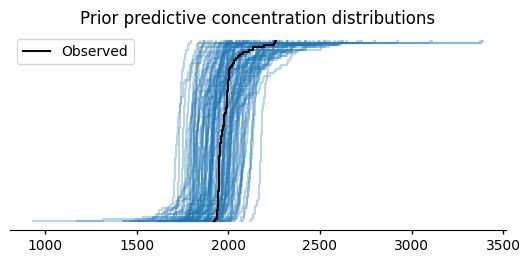
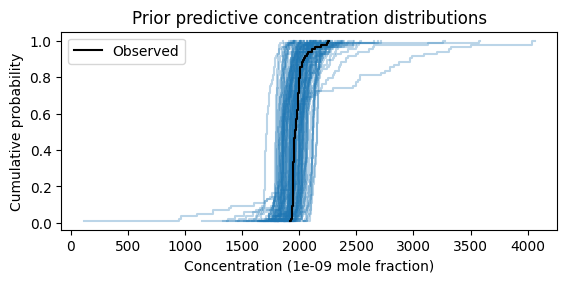
Refresh labelled predictive figures from the real tutorial data

Changed region(s): [[0.0, 0.0304, 0.9962, 0.9734], [0.634, 0.2129, 0.7245, 0.2738], [0.0604, 0.9125, 0.1208, 0.9734]]

diff --git a/docs/usage/prior_predictive_checking.rst b/docs/usage/prior_predictive_checking.rst
@@ -114,7 +114,7 @@ locally, outputs go to ``outputs/prior-check``:
 
 .. jupyter-output::
 
-   {'OpenGHG Inversions commit': 'b1dbf67d9267067d8633204c01ea1e4cc30c4ed0',
+   {'OpenGHG Inversions commit': 'ca468831c6603e4b368680953086c69a6b490d03',
     'tutorial data': 'v1.0.0',
     'prepared inputs written': True}
 
